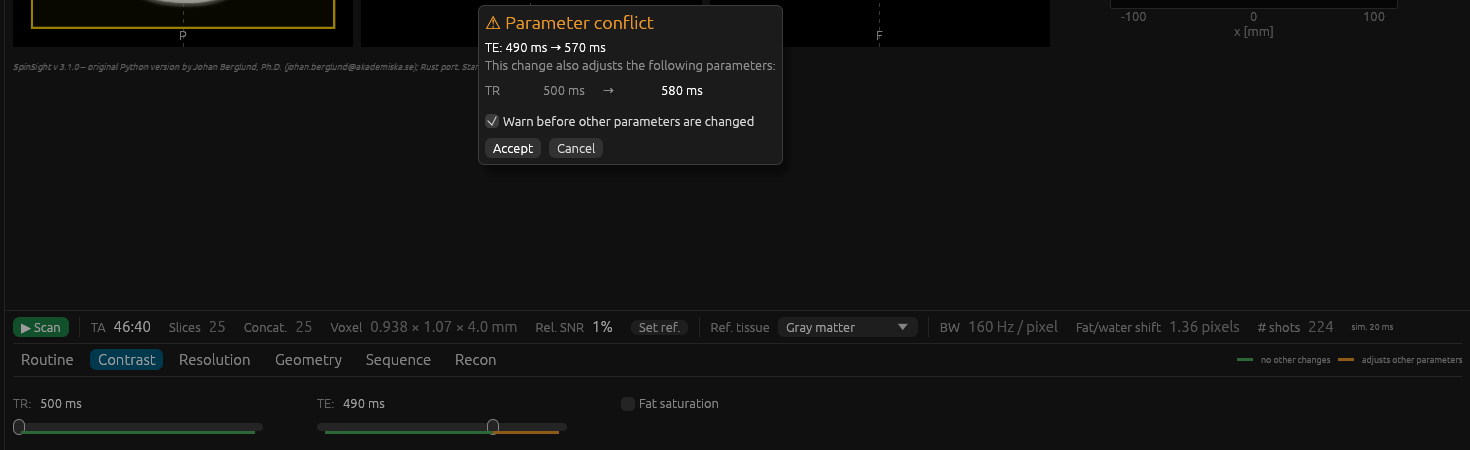
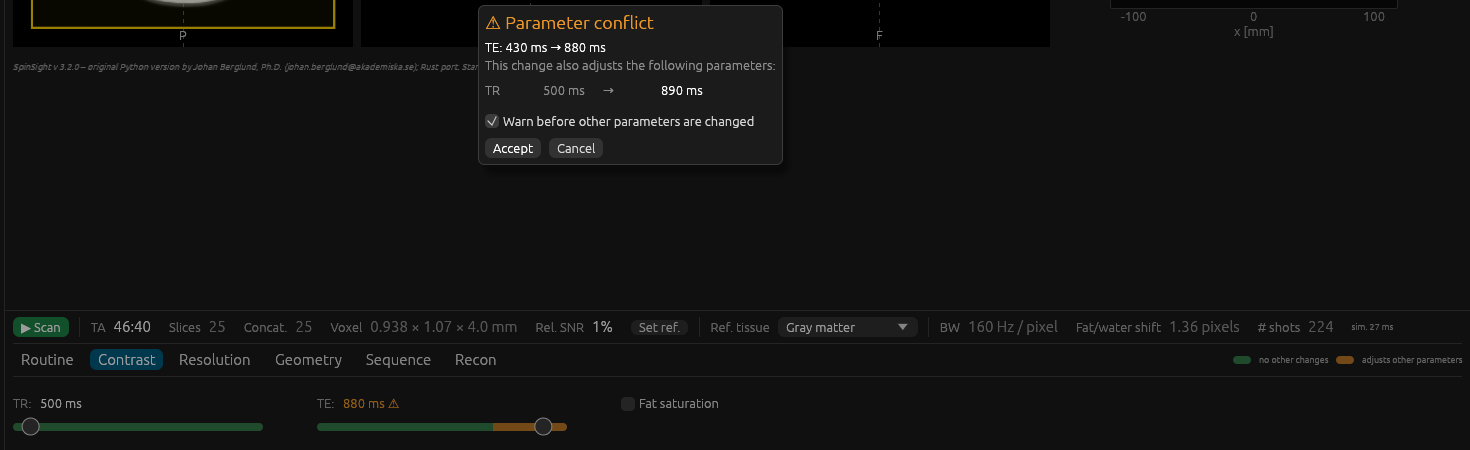
Sliders: colours in the rail, conflicting values held until release (v3.2.1) [release]
- the green/orange ranges are painted into the slider rail itself (under the
  handle) instead of a band below it that overlapped the handle; legend with
  matching swatches
- sliders move freely; while a slider is in a range that would adjust other
  parameters, its value is shown in orange but not applied (the image keeps
  the last valid state); released there, the conflict dialog asks; released
  in the green range, the value is applied directly; while the dialog is open
  the slider stays at the value in question, Cancel returns to the last valid
  value
- README

Claude-Session: https://claude.ai/code/session_01DjG5YSDVyc8vHu3Yrr562D

diff --git a/src/gui/mod.rs b/src/gui/mod.rs
@@ -153,10 +153,9 @@ pub struct SpinSightApp {
     confirm_conflicts: bool,
     show_ranges: bool,
     pending_conflict: Option<conflicts::PendingConflict>,
-    /// parameter whose changes are ignored (cancelled) or not asked again (accepted) until the
-    /// mouse button is released
-    conflict_hold: Option<&'static str>,
-    conflict_accepted: Option<&'static str>,
+    /// slider value that would adjust other parameters, held (not applied) while the slider is
+    /// dragged; the conflict dialog follows when it is released there
+    slider_hold: Option<(&'static str, Value)>,
     confirm_reset: bool,
     show_field_map: bool,
     field_tex: Option<(TextureHandle, f64, u64)>,
@@ -227,8 +226,7 @@ impl SpinSightApp {
             confirm_conflicts: true,
             show_ranges: true,
             pending_conflict: None,
-            conflict_hold: None,
-            conflict_accepted: None,
+            slider_hold: None,
             confirm_reset: false,
             show_field_map: false,
             field_tex: None,
@@ -275,58 +273,51 @@ impl SpinSightApp {
         }
         let object_before = self.ctrl.inputs.object.clone();
         for (name, value) in changes {
-            if self.conflict_hold == Some(name) {
-                continue;
-            }
             if !UNCHECKED_CHANGES.contains(&name) {
                 let adjustments = self.ctrl.preview(name, &value);
-                if !adjustments.is_empty() && (!self.confirm_conflicts || self.conflict_accepted == Some(name)) {
+                if !adjustments.is_empty() && !self.confirm_conflicts {
                     self.ctrl.change_with_adjustments(name, value, &adjustments);
                     continue;
                 }
                 if !adjustments.is_empty() {
-                    let st = self.ctrl.state(name);
-                    let new =
-                        st.spec.options.iter().flatten().chain(st.options.iter()).find(|o| o.value == value).map(|o| o.label.clone()).unwrap_or_else(|| {
-                            match &value {
-                                Value::Num(v) => format!("{v}"),
-                                Value::Str(t) => t.clone(),
-                                Value::Bool(b) => {
-                                    if *b {
-                                        "on".into()
-                                    } else {
-                                        "off".into()
-                                    }
-                                }
-                            }
-                        });
-                    let old = match &st.value {
-                        Value::Bool(b) => {
-                            if *b {
-                                "on".into()
-                            } else {
-                                "off".into()
-                            }
-                        }
-                        _ => st.value_label(),
-                    };
-                    let new = if matches!(value, Value::Bool(_)) {
-                        if value.bool() {
-                            "on".into()
-                        } else {
-                            "off".into()
-                        }
-                    } else {
-                        new
-                    };
-                    self.pending_conflict =
-                        Some(conflicts::PendingConflict { name, label: st.label.trim_end_matches(" [°]").to_string(), old, value, new, adjustments });
+                    self.pending_conflict = Some(self.conflict_for(name, value, adjustments));
                     break;
                 }
             }
             self.ctrl.on_change(name, value);
         }
         self.after_controller_change(&object_before);
+    }
+
+    /// Description of a change of `name` to `value` that adjusts other parameters
+    fn conflict_for(&self, name: &'static str, value: Value, adjustments: Vec<crate::controller::Adjustment>) -> conflicts::PendingConflict {
+        let st = self.ctrl.state(name);
+        let on_off = |b: bool| if b { "on".to_string() } else { "off".to_string() };
+        let label_of = |v: &Value| match v {
+            Value::Bool(b) => on_off(*b),
+            Value::Num(x) => {
+                st.spec.options.iter().flatten().chain(st.options.iter()).find(|o| &o.value == v).map_or_else(|| format!("{x}"), |o| o.label.clone())
+            }
+            Value::Str(t) => st.options.iter().find(|o| &o.value == v).map_or_else(|| t.clone(), |o| o.label.clone()),
+        };
+        let old = match &st.value {
+            Value::Bool(b) => on_off(*b),
+            _ => st.value_label(),
+        };
+        let new = label_of(&value);
+        conflicts::PendingConflict { name, label: st.label.trim_end_matches(" [°]").to_string(), old, value, new, adjustments }
+    }
+
+    /// A held slider value (see `slider_hold`) once the mouse button is released: ask
+    pub(crate) fn release_slider_hold(&mut self) {
+        if let Some((name, value)) = self.slider_hold.take() {
+            let adjustments = self.ctrl.preview(name, &value);
+            if adjustments.is_empty() {
+                self.apply_changes(vec![(name, value)]);
+            } else if self.pending_conflict.is_none() {
+                self.pending_conflict = Some(self.conflict_for(name, value, adjustments));
+            }
+        }
     }
 
     /// Reset all parameters to the standard protocol (the phantom and the examination are kept)
@@ -382,12 +373,11 @@ impl SpinSightApp {
                 let p = self.pending_conflict.take().unwrap();
                 let before = self.ctrl.inputs.object.clone();
                 self.ctrl.change_with_adjustments(p.name, p.value, &p.adjustments);
-                self.conflict_accepted = Some(p.name);
                 self.after_controller_change(&before);
             }
             Some(conflicts::Decision::Cancel) => {
-                let p = self.pending_conflict.take().unwrap();
-                self.conflict_hold = Some(p.name);
+                // the parameter keeps its value (the slider returns to it)
+                self.pending_conflict = None;
             }
             None => {}
         }
@@ -434,7 +424,29 @@ impl SpinSightApp {
             (!adj.is_empty()).then(|| conflicts::describe(&adj))
         };
         let style = RowStyle { help: self.show_help, with_text: self.sliders_with_text, width: PARAM_WIDTH, show_ranges: self.show_ranges };
-        let (change, hovered) = param_row(ui, st, &style, &mut self.text_buf, range, &tip);
+        // value shown but not applied: held while dragging, or waiting for confirmation
+        let held = self
+            .slider_hold
+            .as_ref()
+            .filter(|(n, _)| *n == name)
+            .map(|(_, v)| v.clone())
+            .or_else(|| self.pending_conflict.as_ref().filter(|p| p.name == name).map(|p| p.value.clone()));
+        let row = param_row(ui, st, &style, &mut self.text_buf, range, held.as_ref(), &tip);
+        let (change, hovered) = (row.change, row.hovered);
+        // sliders move freely; a value that would adjust other parameters is held (the image is
+        // not updated) and only proposed in the conflict dialog when the slider is released there
+        let change = match change {
+            Some(v) if row.dragging && self.confirm_conflicts && !UNCHECKED_CHANGES.contains(&name) => {
+                if self.ctrl.preview(name, &v).is_empty() {
+                    self.slider_hold = None;
+                    Some(v)
+                } else {
+                    self.slider_hold = Some((name, v));
+                    None
+                }
+            }
+            other => other,
+        };
         if hovered {
             match name {
                 "TE" => self.spans.te = true,
@@ -858,11 +870,12 @@ impl SpinSightApp {
                     ui.with_layout(egui::Layout::right_to_left(egui::Align::Center), |ui| {
                         let legend = |ui: &mut Ui, color: Color32, text: &str| {
                             ui.label(RichText::new(text).small().color(Color32::GRAY));
-                            let (r, _) = ui.allocate_exact_size(egui::vec2(16.0, 10.0), egui::Sense::hover());
-                            ui.painter().line_segment([r.left_center(), r.right_center()], egui::Stroke::new(3.0, color));
+                            let (r, _) = ui.allocate_exact_size(egui::vec2(18.0, 8.0), egui::Sense::hover());
+                            ui.painter().rect_filled(r, 4.0, color);
                         };
-                        legend(ui, conflicts::ADJUST_COLOR, "adjusts other parameters");
-                        legend(ui, conflicts::FREE_COLOR, "no other changes");
+                        let (free, adjust) = conflicts::rail_colors(ui.visuals().dark_mode);
+                        legend(ui, adjust, "adjusts other parameters");
+                        legend(ui, free, "no other changes");
                     });
                 }
             });
@@ -1235,20 +1248,31 @@ struct RowStyle {
     show_ranges: bool,
 }
 
-/// One parameter widget: returns (new value if changed, hovered). `range`: the selectable values
-/// of a discrete slider with the information which of them adjust other parameters; `tip`
-/// describes the adjustments of a value.
+/// Result of a parameter widget
+struct RowResult {
+    /// new value if changed
+    change: Option<Value>,
+    hovered: bool,
+    /// a slider is being dragged
+    dragging: bool,
+}
+
+/// One parameter widget. `range`: the selectable values of a discrete slider with the
+/// information which of them adjust other parameters; `held`: a slider value shown but not yet
+/// applied; `tip` describes the adjustments of a value.
 fn param_row(
     ui: &mut Ui,
     st: &ParamState,
     style: &RowStyle,
     text_buf: &mut HashMap<&'static str, String>,
     range: Option<&SliderRange>,
+    held: Option<&Value>,
     tip: &dyn Fn(&Value) -> Option<String>,
-) -> (Option<Value>, bool) {
+) -> RowResult {
     let (help, with_text, width) = (style.help, style.with_text, style.width);
     let name = st.spec.name;
     let mut change = None;
+    let mut dragging = false;
     let mut help_hovered = false;
     let resp = ui.horizontal(|ui| {
         if help {
@@ -1293,12 +1317,21 @@ fn param_row(
                 }
             }
             Widget::DiscreteSlider => {
-                ui.horizontal(|ui| {
-                    ui.label(RichText::new(format!("{}:", st.label)).color(Color32::GRAY));
-                    ui.label(RichText::new(st.value_label()).strong());
-                });
                 // the extended range (if known) includes values that adjust other parameters
                 let opts: &[crate::params::Opt] = range.map_or(st.options.as_slice(), |r| r.options.as_slice());
+                let shown = held.unwrap_or(&st.value);
+                ui.horizontal(|ui| {
+                    ui.label(RichText::new(format!("{}:", st.label)).color(Color32::GRAY));
+                    match held.and_then(|h| opts.iter().find(|o| &o.value == h)) {
+                        Some(o) => {
+                            ui.label(RichText::new(format!("{} ⚠", o.label)).strong().color(conflicts::ADJUST_COLOR))
+                                .on_hover_text("Adjusts other parameters: release to confirm");
+                        }
+                        None => {
+                            ui.label(RichText::new(st.value_label()).strong());
+                        }
+                    }
+                });
                 let n = opts.len();
                 ui.horizontal(|ui| {
                     let text_w = if with_text { 64.0 } else { 0.0 };
@@ -1307,18 +1340,19 @@ fn param_row(
                         let mut dummy = 0usize;
                         ui.add_enabled(false, egui::Slider::new(&mut dummy, 0..=1).show_value(false));
                     } else {
-                        let current = opts.iter().position(|o| o.value == st.value).or_else(|| {
+                        let current = opts.iter().position(|o| &o.value == shown).or_else(|| {
                             let vals: Vec<f64> = opts.iter().map(|o| o.value.num()).collect();
-                            crate::params::snap(st.value.num(), &vals, crate::params::SnapMode::Nearest).and_then(|s| vals.iter().position(|&x| x == s))
+                            crate::params::snap(shown.num(), &vals, crate::params::SnapMode::Nearest).and_then(|s| vals.iter().position(|&x| x == s))
                         });
                         let mut idx = current.unwrap_or(0);
                         let r = ui.add_enabled(n > 1, egui::Slider::new(&mut idx, 0..=n - 1).show_value(false));
-                        if r.changed() && opts[idx].value != st.value {
+                        dragging = r.dragged();
+                        if r.changed() && &opts[idx].value != shown {
                             change = Some(opts[idx].value.clone());
                         }
                         if let Some(rg) = range {
                             if style.show_ranges {
-                                conflicts::paint_band(ui, r.rect, &rg.adjusts);
+                                conflicts::paint_rail(ui, &r, &rg.adjusts, idx);
                             }
                             if r.hovered() && !r.dragged() {
                                 if let Some(k) = conflicts::hovered_index(ui, r.rect, n) {
@@ -1356,17 +1390,13 @@ fn param_row(
         });
     });
     let hovered = help_hovered || resp.response.contains_pointer();
-    (change, hovered)
+    RowResult { change, hovered, dragging }
 }
 
 impl eframe::App for SpinSightApp {
     fn ui(&mut self, ui: &mut Ui, _frame: &mut eframe::Frame) {
         self.poll_scan();
         self.ranges.poll();
-        if !ui.ctx().input(|i| i.pointer.any_down()) {
-            self.conflict_hold = None;
-            self.conflict_accepted = None;
-        }
         if let Some(r) = self.worker.poll() {
             if r.id >= self.result.as_ref().map_or(0, |x| x.id) {
                 self.result = Some(r);
@@ -1394,6 +1424,11 @@ impl eframe::App for SpinSightApp {
         }
         if !changes.is_empty() {
             self.apply_changes(changes);
+            ctx.request_repaint();
+        }
+        // a slider held in a range that adjusts other parameters was released
+        if self.slider_hold.is_some() && !ctx.input(|i| i.pointer.any_down()) {
+            self.release_slider_hold();
             ctx.request_repaint();
         }
         if self.worker.status.busy.load(Ordering::Relaxed) {

diff --git a/src/gui/conflicts.rs b/src/gui/conflicts.rs
@@ -4,14 +4,12 @@
 use std::collections::HashMap;
 use std::sync::mpsc::{channel, Receiver, Sender, TryRecvError};
 
-use egui::{Color32, Pos2, Rect, RichText, Stroke, Ui};
+use egui::{Color32, Pos2, Rect, RichText, Ui};
 
 use crate::controller::{Adjustment, Controller, SliderRange};
 use crate::params::Value;
 
-/// Values that change no other parameter
-pub const FREE_COLOR: Color32 = Color32::from_rgb(70, 170, 90);
-/// Values for which other parameters are adjusted
+/// Accent colour of conflicts (dialog title, pending values)
 pub const ADJUST_COLOR: Color32 = Color32::from_rgb(235, 150, 40);
 
 /// Computes the slider ranges in a background thread (they need many protocol evaluations)
@@ -101,29 +99,51 @@ impl RangeAnalyzer {
     }
 }
 
-/// Paint the colour band of a slider (below its rail): green where no other parameter changes,
-/// orange where other parameters would be adjusted
-pub fn paint_band(ui: &Ui, slider_rect: Rect, adjusts: &[bool]) {
+/// Colours of the slider rail (values that change no other parameter, values that adjust others)
+pub fn rail_colors(dark: bool) -> (Color32, Color32) {
+    if dark {
+        (Color32::from_rgb(52, 122, 72), Color32::from_rgb(190, 122, 38))
+    } else {
+        (Color32::from_rgb(128, 192, 140), Color32::from_rgb(236, 170, 84))
+    }
+}
+
+/// Colour the rail of the discrete slider `r` with `n = adjusts.len()` positions: green where no
+/// other parameter changes, orange where other parameters would be adjusted; the handle (at
+/// position `idx`) is drawn on top again
+pub fn paint_rail(ui: &Ui, r: &egui::Response, adjusts: &[bool], idx: usize) {
     let n = adjusts.len();
     if n < 2 {
         return;
     }
-    // positions of the handle centre (egui: the rect shrunk by the handle radius)
-    let r = slider_rect.height() / 2.5;
-    let (x0, x1) = (slider_rect.left() + r, slider_rect.right() - r);
-    let y = slider_rect.center().y + 6.0;
+    let rect = r.rect;
+    let rail_r = (ui.spacing().slider_rail_height / 2.0).max(1.0);
+    let rail = Rect::from_min_max(Pos2::new(rect.left(), rect.center().y - rail_r), Pos2::new(rect.right(), rect.center().y + rail_r));
+    // positions of the handle centre (as egui: the rect shrunk by the handle radius)
+    let hr = rect.height() / 2.5;
+    let (x0, x1) = (rect.left() + hr, rect.right() - hr);
     let x_of = |i: f32| x0 + (x1 - x0) * i / (n - 1) as f32;
+    let (free, adjust) = rail_colors(ui.visuals().dark_mode);
     let painter = ui.painter();
+    let cr = rail_r.round() as u8;
     let mut start = 0usize;
     for i in 1..=n {
         if i == n || adjusts[i] != adjusts[start] {
-            let a = if start == 0 { x0 } else { x_of(start as f32 - 0.5) };
-            let b = if i == n { x1 } else { x_of(i as f32 - 0.5) };
-            let color = if adjusts[start] { ADJUST_COLOR } else { FREE_COLOR };
-            painter.line_segment([Pos2::new(a, y), Pos2::new(b, y)], Stroke::new(3.0, color));
+            let a = if start == 0 { rail.left() } else { x_of(start as f32 - 0.5) };
+            let b = if i == n { rail.right() } else { x_of(i as f32 - 0.5) };
+            let (left, right) = (if start == 0 { cr } else { 0 }, if i == n { cr } else { 0 });
+            let corners = egui::CornerRadius { nw: left, sw: left, ne: right, se: right };
+            painter.rect_filled(Rect::from_min_max(Pos2::new(a, rail.top()), Pos2::new(b, rail.bottom())), corners, if adjusts[start] { adjust } else { free });
             start = i;
         }
     }
+    let visuals = ui.style().interact(r);
+    painter.add(egui::epaint::CircleShape {
+        center: Pos2::new(x_of(idx.min(n - 1) as f32), rect.center().y),
+        radius: hr + visuals.expansion,
+        fill: visuals.bg_fill,
+        stroke: visuals.fg_stroke,
+    });
 }
 
 /// Option index under the pointer of a hovered slider

diff --git a/README.md b/README.md
@@ -33,8 +33,8 @@ The program starts with the **standard protocol**, a T1-weighted spin echo (TR 5
 
 ### Parameter conflicts
 As on MR scanners, a change of one parameter can require changes of others – a longer TE needs a longer TR, a larger matrix or a lower bandwidth a longer TE, a higher turbo factor a longer TR, thin slices a longer TE:
-* **Colour-coded sliders**: below each slider, green marks the values that change no other parameter and orange the values for which other parameters are adjusted. The sliders are extended by these orange values (beyond the range that fits the current protocol); hovering an orange value shows what would change (e.g. *750 ms: TR 500 ms → 760 ms*).
-* **Warning before the change** (option *Warn before other parameters change*, on by default): a dialog lists the parameters that would be adjusted, with their old and new values; *Accept* (Enter) makes the change, *Cancel* (Esc) keeps the protocol. Accepted adjustments stay (a TR prolonged for a long TE is not shortened again automatically). With the option off, the adjustments are made directly.
+* **Colour-coded sliders**: the rail of each slider shows in green the values that change no other parameter and in orange the values for which other parameters are adjusted. The sliders are extended by these orange values (beyond the range that fits the current protocol); hovering an orange value shows what would change (e.g. *750 ms: TR 500 ms → 760 ms*).
+* **Warning before the change** (option *Warn before other parameters change*, on by default): the sliders move freely. While a slider is in the orange range, its value is shown in orange (⚠) but not applied – the image keeps the last valid state. When the slider is released there, a dialog lists the parameters that would be adjusted, with their old and new values; *Accept* (Enter) makes the change, *Cancel* (Esc) returns to the last valid value. Released in the green range, the value is applied directly. Accepted adjustments stay (a TR prolonged for a long TE is not shortened again automatically). Changes in selection lists and text boxes are confirmed the same way. With the option off, the adjustments are made directly.
 
 Both can be switched off under *OPTIONS* in the browser.
 
